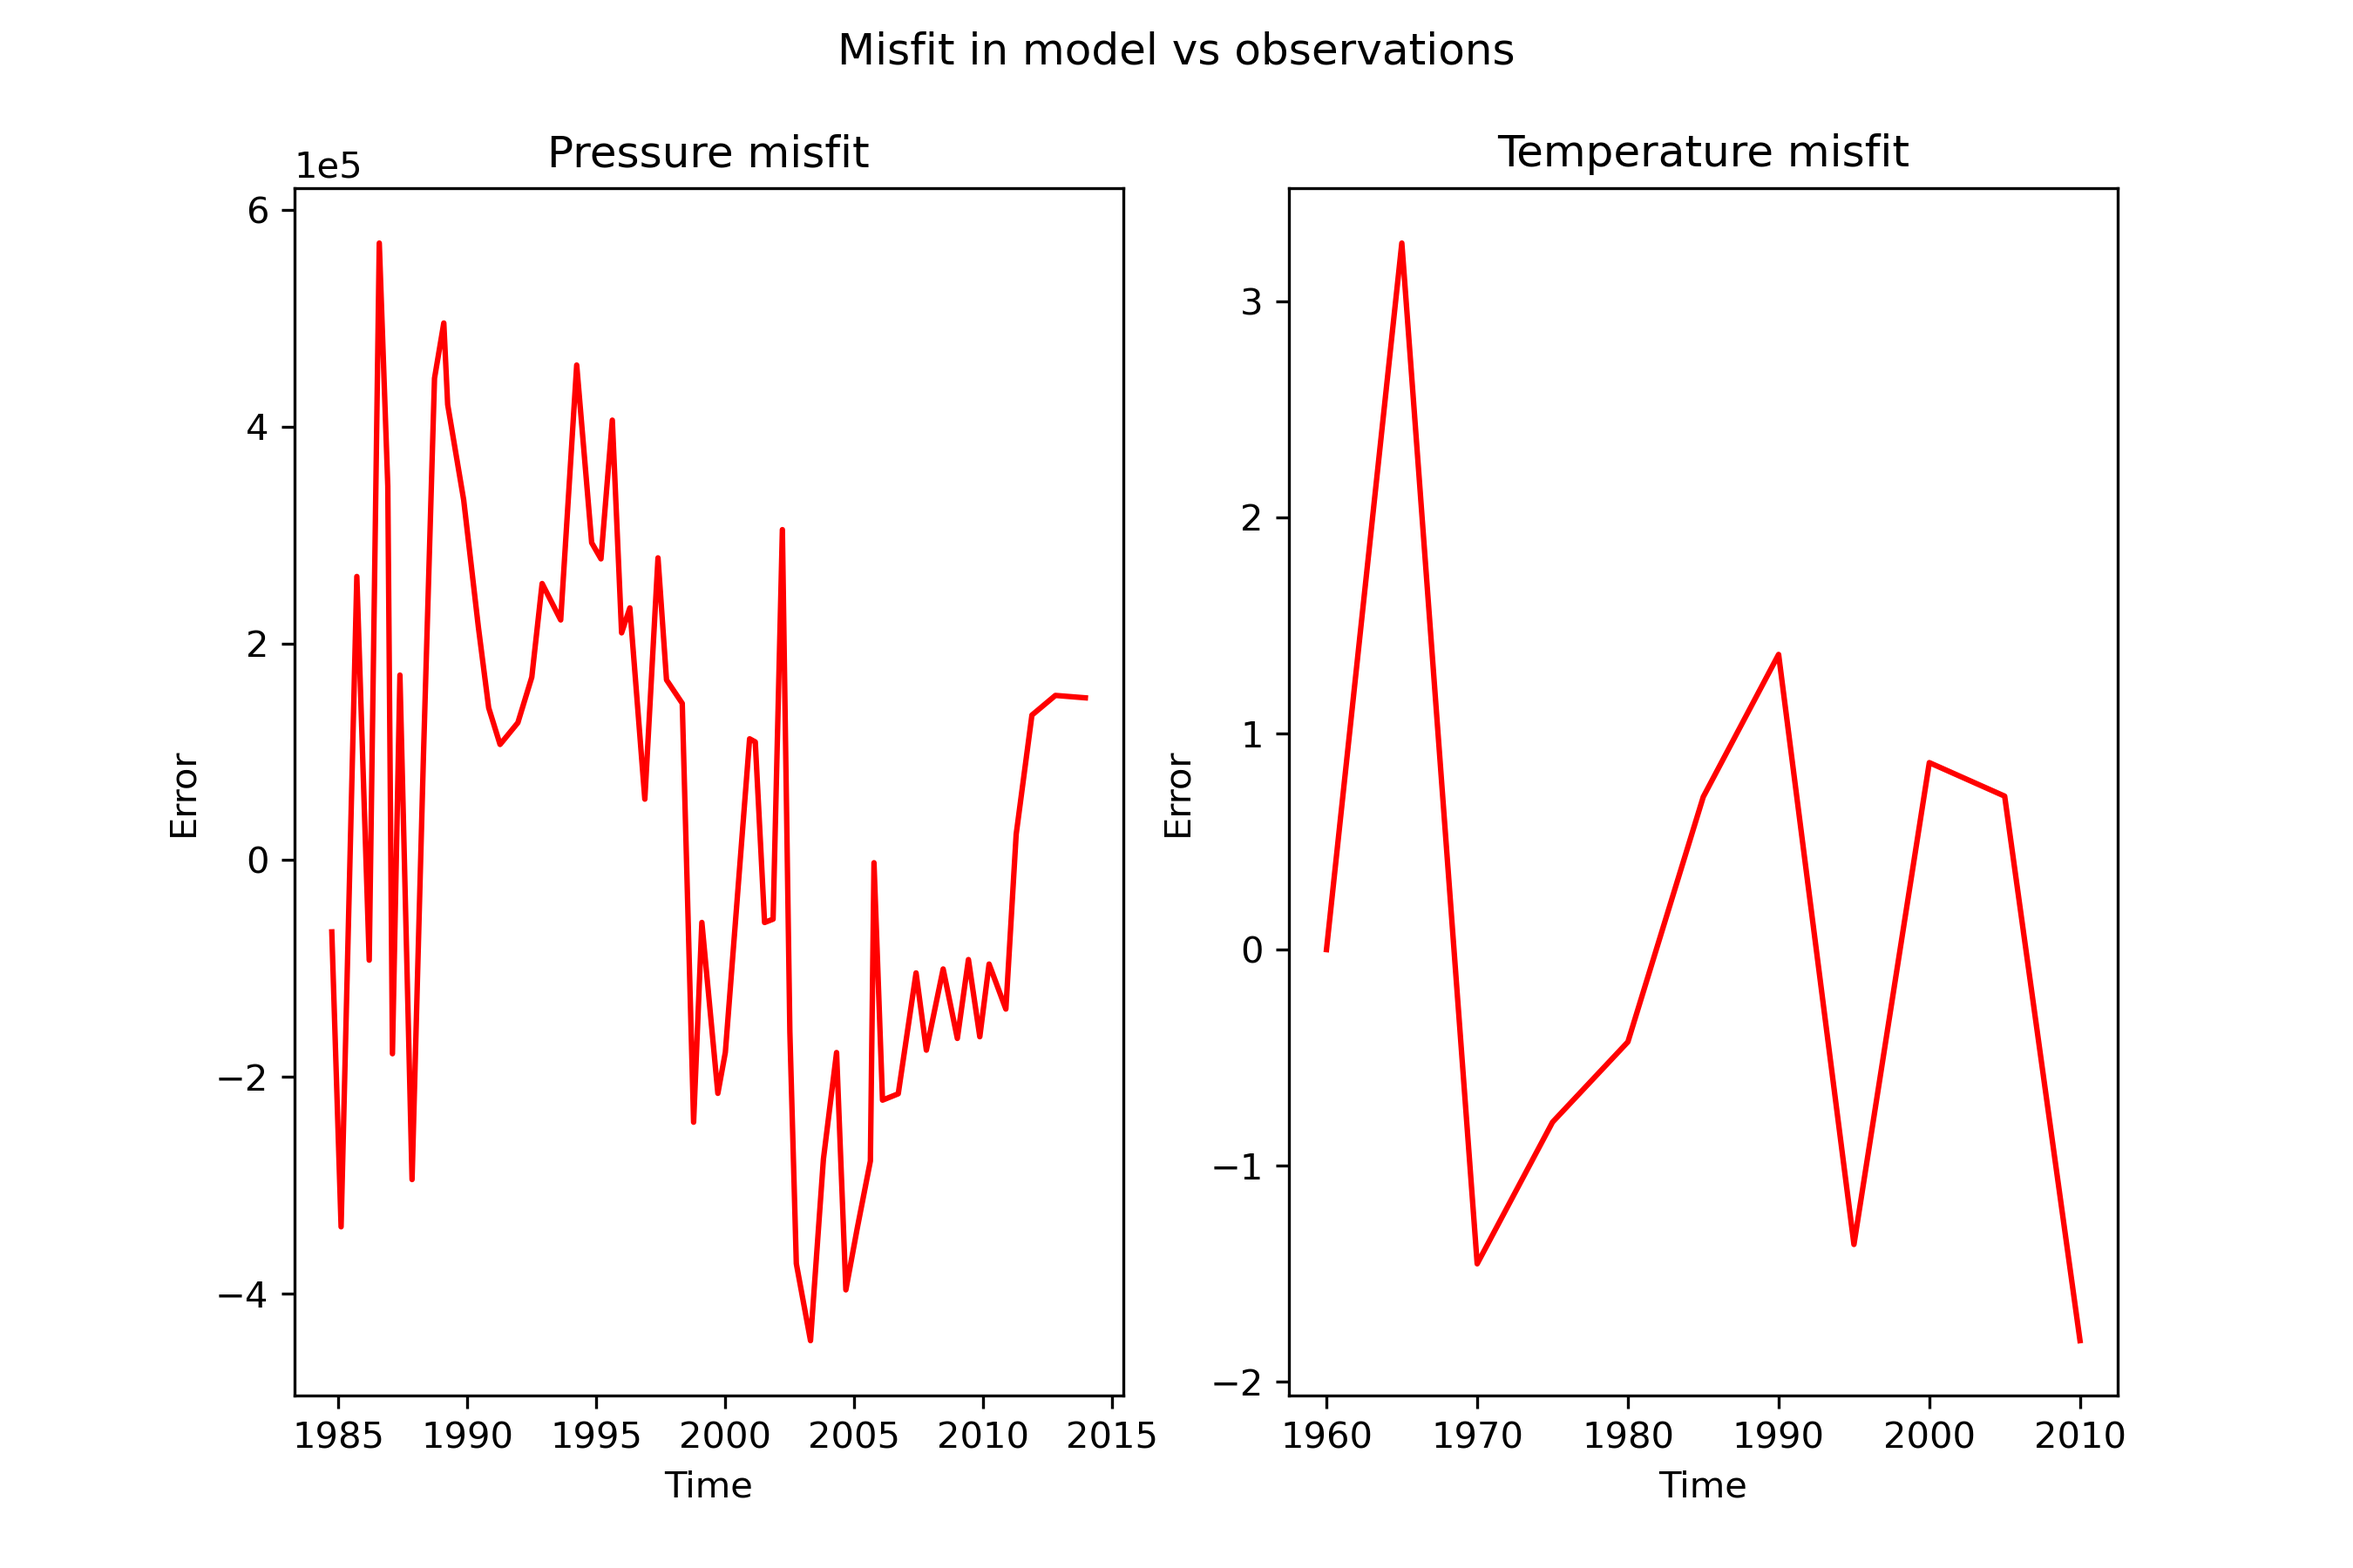
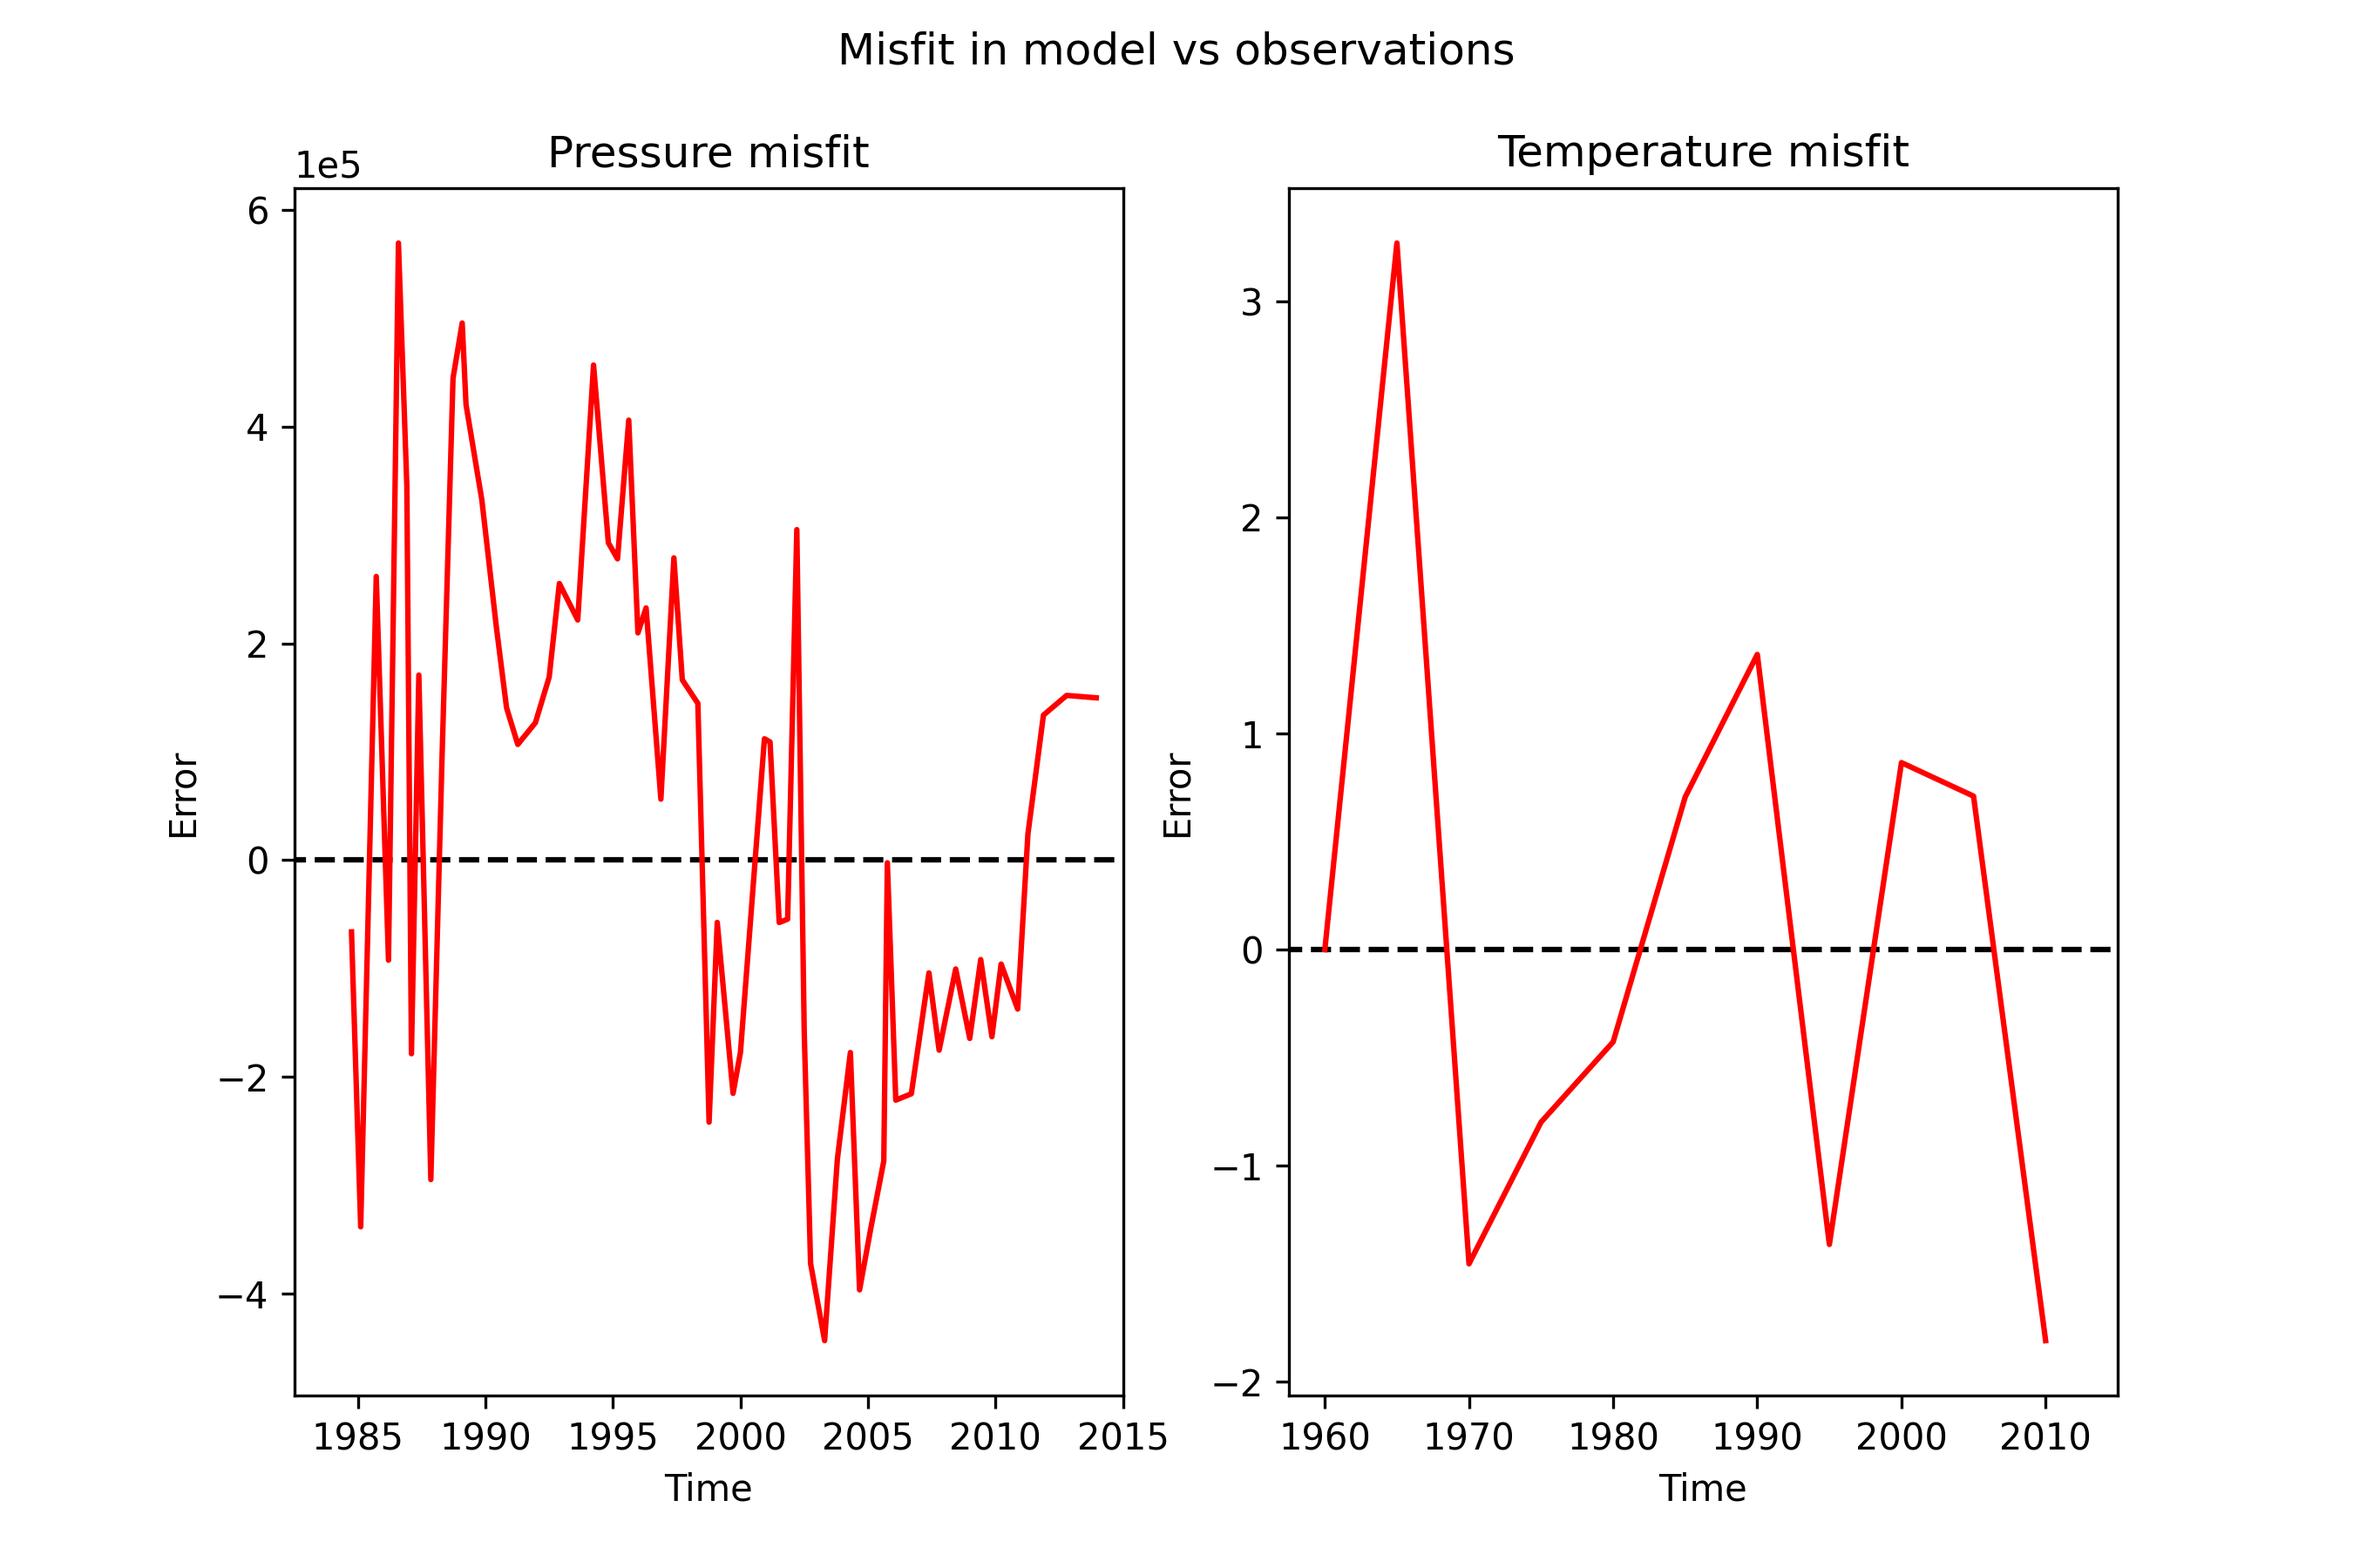
Changes made to graphs

diff --git a/Benchmarking.py b/Benchmarking.py
@@ -99,8 +99,8 @@ def plot_benchmark():
 
     axP = subfigsPT[0].subplots(nrows=1, ncols=3)
 
-    axP[0].plot(t2, P2, "r-", label="analytic")
-    axP[0].plot(t2, P, "bx-", label="numerical")
+    axP[0].plot(t2, P2, "b-", label="analytic")
+    axP[0].plot(t2, P, "rx", label="numerical")
 
     axP[0].legend()
 
@@ -108,21 +108,23 @@ def plot_benchmark():
     axP[0].set_title("Analytic vs Numerical solution")
     axP[0].set_xlabel("Time")
     axP[0].set_ylabel("Pressure")
-
+    axP[0].hlines(y=1.013475893998171, xmin=-1, xmax =11, colors='k', linestyles='--')
+    axP[0].set_xlim(-0.5,10.5)
     # Relative Error Plot
-    axP[1].plot(t, error, "g-")
-
+    axP[1].plot(t, error, "r-")
+    axP[1].hlines(y=0, xmin=-1, xmax =11, colors='k', linestyles='--')
     axP[1].set_title("Relative Error, (analytic - numerical) / analytic")
     axP[1].set_xlabel("Time")
     axP[1].set_ylabel("Error")
-
+    axP[1].set_xlim(-0.5,10.5)
     # Convergence Testing Plot
-    axP[2].plot(inv_dt, conv, "k*")
-
+    axP[2].plot(inv_dt, conv, "r*")
+    axP[2].hlines(y=1.013475893998171, xmin=-1, xmax =11, colors='k', linestyles='--')
     axP[2].set_title("Convergence testing")
     axP[2].set_xlabel("1/step size")
     axP[2].set_ylabel("Final value")
-
+    axP[2].set_xlim(0.9,3)
+    
     """f1, ax1 = plt.subplots(nrows=1, ncols=1)
 
     ax1.plot(t2, P2, "r-", label="analytic")
@@ -201,6 +203,9 @@ def plot_benchmark():
 
     fP.suptitle('Pressure Benchmarks', fontsize=16)"""
 
+    """
+
+    """
     # Temperature ODE
     # The analytic solution takes q as an input but the numerical solution takes Pressure
     # This means we need pressure values for given q from the pressure ODE first
@@ -355,26 +360,28 @@ def plot_benchmark():
 
     axT = subfigsPT[1].subplots(nrows=1, ncols=3)
 
-    axT[0].plot(t2, T2, "r-", label="analytic")
-    axT[0].plot(t2, T, "bx-", label="numerical")
-
+    axT[0].plot(t2, T2, "b-", label="analytic")
+    axT[0].plot(t2, T, "rx", label="numerical")
+    axT[0].hlines(y=3.0006619445853655, xmin=-1, xmax =11, colors='k', linestyles='--')
     axT[0].legend()
-
+    axT[0].set_xlim(-0.5,10.5)
     # Analytical v Numerical Plot
     axT[0].set_title("Analytic vs Numerical solution")
     axT[0].set_xlabel("Time")
     axT[0].set_ylabel("Temperature")
-
+    
     # Relative Error Plot
-    axT[1].plot(t, error, "g-")
-
+    axT[1].plot(t, error, "r-")
+    axT[1].hlines(y=0, xmin=-1, xmax =11, colors='k', linestyles='--')
     axT[1].set_title("Relative Error, (analytic - numerical) / analytic")
     axT[1].set_xlabel("Time")
     axT[1].set_ylabel("Error")
+    axT[1].set_xlim(-0.5,10.5)
 
     # Convergence Testing Plot
-    axT[2].plot(inv_dt, conv, "k*")
-
+    axT[2].plot(inv_dt, conv, "r*")
+    axT[2].hlines(y=3.0006619445853655, xmin=-1, xmax =11, colors='k', linestyles='--')
+    axT[2].set_xlim(0.9,3)
     axT[2].set_title("Convergence testing")
     axT[2].set_xlabel("1/step size")
     axT[2].set_ylabel("Final value")

diff --git a/ODE_Model_Function.py b/ODE_Model_Function.py
@@ -729,7 +729,8 @@ def plot_model(Future_Productions, Future_Time, Labels, uncertainty=True):
             fontsize=7,
             fontweight="bold",
         )
-
+    axT.hlines(y=149, xmin=1955, xmax =2085, colors='k', linestyles='--')
+    axT.set_xlim(1957.5,2082.5)
     axT.legend(handles=HandlesT, labels=Labels)
     plt.title(label="Temperature")
     figT.savefig("Temperature.png")
@@ -751,8 +752,11 @@ def plot_model(Future_Productions, Future_Time, Labels, uncertainty=True):
     ax1.set_ylim(0,16)
     ax1.set_xlabel('Porosity')
     ax1.set_ylabel("Probabiltiy Density")
-    plt.show()
-    f1.savefig("Porosity.png")
+    save_figure = True
+    if not save_figure:
+        plt.show()
+    else:
+        f1.savefig("Porosity.png", dpi=300)
     return tT0, xT0, tP0, xP0
 
 
@@ -766,9 +770,12 @@ def plot_misfit(xp, fp, xt, ft):
 
     f1, (ax1, ax2) = plt.subplots(nrows=1, ncols=2)
 
-    ax2.plot(YearT, temp_error, "r", label="error")
-    ax1.plot(Yearp, pressure_error, "r", label="error")
-
+    ax2.plot(YearT, temp_error, "r-", label="error")
+    ax2.hlines(y=0, xmin=1955, xmax =2020, colors='k', linestyles='--')
+    ax1.plot(Yearp, pressure_error, "r-", label="error")
+    ax2.set_xlim(1957.5,2015)
+    ax1.hlines(y=0, xmin=1955, xmax =2020, colors='k', linestyles='--')
+    ax1.set_xlim(1982.5,2015)
     ax1.set_title("Pressure misfit")
     ax1.set_xlabel("Time")
     ax1.set_ylabel("Error")
@@ -822,10 +829,10 @@ if __name__ == "__main__":
     Future_Productions = [10000, 0, 20000, 5000]
     Future_Time = 2080
     Labels = [
-        "Current Production",
+        "Current production",
         "Cease all production",
         "Double current production",
-        "Half Current Production",
+        "Half current production",
     ]
     tT0, xT0, tP0, xP0 = plot_model(Future_Productions, Future_Time, Labels)
     plot_misfit(tP0, xP0, tT0, xT0)

diff --git a/test_functions.py b/test_functions.py
@@ -23,13 +23,13 @@ def test_solve_temperature_ode_low_pressure():
     Tests if function ode_temperature_model is working properly by comparing it with a known result, when P0 is greater than P.
     """
     # test for when P0 > P
-    dtdt1 = [1.        , 1.46875   , 2.42089844]
-    T1, dTdt1 = solve_temperature_ode(ode_temperature_model, 0, 1, 0.5, 1, [0, 1, 2, 3, 4, 5, [6, 6, 6], 7])
+    dtdt = [1.        , 1.46875   , 2.42089844]
+    T, dTdt = solve_temperature_ode(ode_temperature_model, 0, 1, 0.5, 1, [0, 1, 2, 3, 4, 5, [6, 6, 6], 7])
 
     # Asserts for when P0 > P
-    assert abs(dTdt1[0] - dtdt1[0]) < 1.0e-4
-    assert abs(dTdt1[1] - dtdt1[1]) < 1.0e-4
-    assert abs(dTdt1[2] - dtdt1[2]) < 1.0e-4
+    assert abs(dTdt[0] - dtdt[0]) < 1.0e-4
+    assert abs(dTdt[1] - dtdt[1]) < 1.0e-4
+    assert abs(dTdt[2] - dtdt[2]) < 1.0e-4
 
 
 def test_solve_temperature_ode_high_pressure():
@@ -43,6 +43,3 @@ def test_solve_temperature_ode_high_pressure():
     assert abs(dTdt[0] - dtdt[0]) < 1.0e-4
     assert abs(dTdt[1] - dtdt[1]) < 1.0e-4
     assert abs(dTdt[2] - dtdt[2]) < 1.0e-4
-
-T, dTdt = solve_temperature_ode(ode_temperature_model, 0, 1, 0.5, 1, [0, 1, 2, 3, 4, 5, [7, 8, 9], 6])
-a=1
